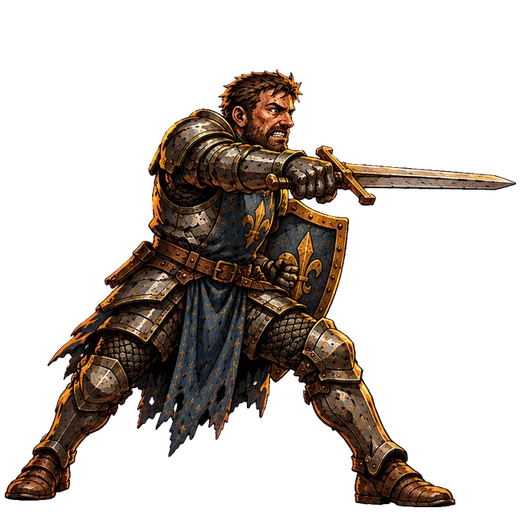
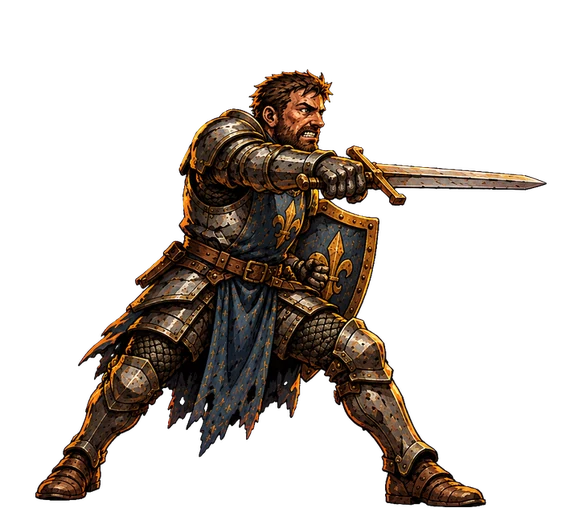
Hearthguard: Knight attacks animate frame by frame, slashing or shield-bashing
Knight attacks now play a three-frame motion (anticipation, impact,
follow-through) instead of a single pose: shield attacks (Shield Bash,
Body Slam, Bulwark, Crushing Charge, Parry, Shield Toss, Titan's Wrath)
bash, everything else slashes. The card's effect lands on the impact
frame. All ten Knight poses share one canvas aligned on the feet and
are scaled to match by head height.

Changed region(s): [[0.0, 0.125, 1.0, 1.0]]

diff --git a/Hearthguard/game.js b/Hearthguard/game.js
@@ -1215,6 +1215,17 @@ const ENEMY_ATTACKS = new Set(['atk', 'pounce', 'wave', 'quake', 'sunder', 'shat
 // A pose shown briefly after a card lands, by player id: { pose, until } in ms.
 const poseFlash = new Map();
 const POSE_MS = { attack: 450, cast: 600 };
+// Multi-frame attacks: per class, motions made of frames (assets/heroes/<cls>-<frame>.webp)
+// played in order when an attack lands, in place of the single attack pose. Each frame holds
+// for MOVE_MS: anticipation, impact, follow-through. The card's effect waits for the impact
+// frame (MOVE_HIT ms), so the slash or bash lands on the hit.
+const HERO_MOVES = { knight: { slash: ['slash1', 'slash2', 'slash3'], bash: ['bash1', 'bash2', 'bash3'] } };
+const MOVE_MS = [110, 150, 220];
+const MOVE_HIT = MOVE_MS[0];
+// The Knight's shield attacks bash; his other attacks slash.
+const SHIELD_ATTACKS = new Set(['k_bash', 'k_slam', 'k_bulwark', 'k_charge', 'k_parry', 'k_toss', 'k_titan']);
+const motionFor = (cls, id) => cls === 'knight' ? (SHIELD_ATTACKS.has(id) ? 'bash' : 'slash') : null;
+const heroPoses = cls => [...POSES, ...Object.values(HERO_MOVES[cls] || {}).flat()];
 
 function heroEl(pid) {
   let el = combatDom.heroes.get(pid);
@@ -1227,7 +1238,7 @@ function heroEl(pid) {
   const cls = CLASSES[p?.cls] ? p.cls : null;
   // Every pose is in the page from the start, stacked, so swapping one is instant.
   const art = !cls ? '❔'
-    : HERO_ART.has(cls) ? POSES.map(k => `<img class="pose" data-pose="${k}" src="assets/heroes/${cls}-${k}.webp" alt="" draggable="false">`).join('')
+    : HERO_ART.has(cls) ? heroPoses(cls).map(k => `<img class="pose" data-pose="${k}" src="assets/heroes/${cls}-${k}.webp" alt="" draggable="false">`).join('')
     : `<img class="bust" src="assets/classes/${cls}.webp" alt="" draggable="false">`;
   el.innerHTML = `
     <div class="fig">
@@ -1585,14 +1596,21 @@ function frame(now) {
 
 // Down beats everything, then a pose flashed by a card that just landed, then casting.
 function setPose(el, pid, h) {
-  const f = poseFlash.get(pid);
-  showPose(el, h.down ? 'down' : f && f.until > performance.now() ? f.pose : h.ch ? 'cast' : 'idle');
+  showPose(el, h.down ? 'down' : flashedPose(poseFlash.get(pid)) || (h.ch ? 'cast' : 'idle'));
+}
+// The pose a flash shows now: a single pose until it runs out, or the current frame of a
+// multi-frame motion. Null once it's over.
+function flashedPose(f, now = performance.now()) {
+  if (!f) return null;
+  if (!f.seq) return f.until > now ? f.pose : null;
+  let t = now - f.t0;
+  for (let i = 0; i < f.seq.length; i++) if ((t -= MOVE_MS[i] ?? 200) < 0) return f.seq[i];
+  return null;
 }
 // Enemies: a pose flashed by the move that just landed, then winding up (attacks) or
 // readying a skill, then idle. A stunned enemy's wind-up is frozen, so it stands idle.
 function setEnemyPose(el, e, move, stunned) {
-  const f = poseFlash.get(e.id);
-  showPose(el, f && f.until > performance.now() ? f.pose : move && !stunned ? (move === 'atk' ? 'windup' : 'skill') : 'idle');
+  showPose(el, flashedPose(poseFlash.get(e.id)) || (move && !stunned ? (move === 'atk' ? 'windup' : 'skill') : 'idle'));
 }
 function showPose(el, pose) {
   const art = el.querySelector('.art.posed');
@@ -2042,11 +2060,14 @@ function handleEvents(list) {
         break;
       }
       case 'cast': {
-        // Attacks swing and lunge at the enemy; everything else is a quick skill pose.
+        // Attacks swing and lunge at the enemy (frame by frame, if the class has a motion
+        // for this card); everything else is a quick skill pose.
+        const cls = S.players.find(p => p.id === ev.by)?.cls;
+        const frames = ev.atk && HERO_MOVES[cls]?.[motionFor(cls, ev.id)];
         const pose = ev.atk ? 'attack' : 'cast';
-        poseFlash.set(ev.by, { pose, until: performance.now() + POSE_MS[pose] });
+        poseFlash.set(ev.by, frames ? { seq: frames, t0: performance.now() } : { pose, until: performance.now() + POSE_MS[pose] });
         if (ev.atk) flash(ev.by, 'lunge');
-        castFx(ev);
+        if (frames) setTimeout(() => castFx(ev), MOVE_HIT); else castFx(ev);
         floatText(ev.by, ev.card, 'cast');
         if (ev.combo) floatText(ev.by, `COMBO ×${(1 + ev.combo * 0.25 * (S.relics?.includes('choir') ? 2 : 1)).toFixed(2).replace(/0$/, '')}`, 'combo');
         break;

diff --git a/Hearthguard/CLAUDE.md b/Hearthguard/CLAUDE.md
@@ -83,6 +83,10 @@ No build step and no dependencies to install. Plain ES modules served as static 
   - Scripts used Pillow and numpy from a scratch folder. They aren't in the repo.
 - **Hero poses:** each class has a 2×2 sheet `assets/heroes-<cls>.png` (idle, attack / cast, down), full body, facing right, made by attaching the class bust as the reference. It's sliced to `assets/heroes/<cls>-<pose>.webp`, 512px tall. All four cells are cropped with **one shared rectangle**, so the figure keeps its scale and foot line when the pose swaps. Then add the class to `HERO_ART` in `game.js`; classes not listed stand in with their bust. The Rogue's sheet goes on magenta because of the green cloak.
   - **Redrawn poses:** a pose redrawn as its own image (like `heroes-knight-attack.png`, because the lunge didn't fit a cell) is scaled to the height of the cell it replaces. All poses then go on one shared canvas aligned on the feet: same lowest pixel, and the same middle of the feet. The hero stays planted and a wide pose just reaches further.
+  - **Attack motions:** classes in `HERO_MOVES` play a three-frame motion on attacks instead of the single attack pose: anticipation, impact, follow-through, held for `MOVE_MS`.
+    - The card's effect waits until the impact frame (`MOVE_HIT`).
+    - `motionFor` picks the motion. The Knight bashes with `SHIELD_ATTACKS` (Shield Bash, Body Slam, Bulwark, Crushing Charge, Parry, Shield Toss, Titan's Wrath) and slashes with everything else.
+    - His frames came from a 3×2 sheet (`assets/heroes-knights-frames.png`) and were scaled to match his other poses **by head height**. Lunges vary in depth, so matching on overall height made him 20% too big.
   - **Sizing:** hero pose images are sized by height (`.hero .art.posed img.pose`), not fitted into the box, so a wide canvas doesn't shrink the hero. The overhang ignores taps.
 - **Poses in combat:** `setPose` picks down, then a pose flashed by a card that just landed (`poseFlash`: attack for attacks, cast for everything else), then cast while casting, then idle. The `cast` event carries the card `id`, target `t` and `atk`, for poses and effects.
 - **Enemy motion and poses:** every enemy breathes and leans back as a move winds up. `--wind` (0–1, in steps of 0.05) and `data-move` (`atk`/`skill`) are set in `frame()`. Attacks (`ENEMY_ATTACKS`) flare red under the enemy's feet in the last quarter of the wind-up (`.imminent`) and lunge when they land; other moves rear up. Hits knock units back with a flash (`.hit .fig`), and stunned enemies sway.
